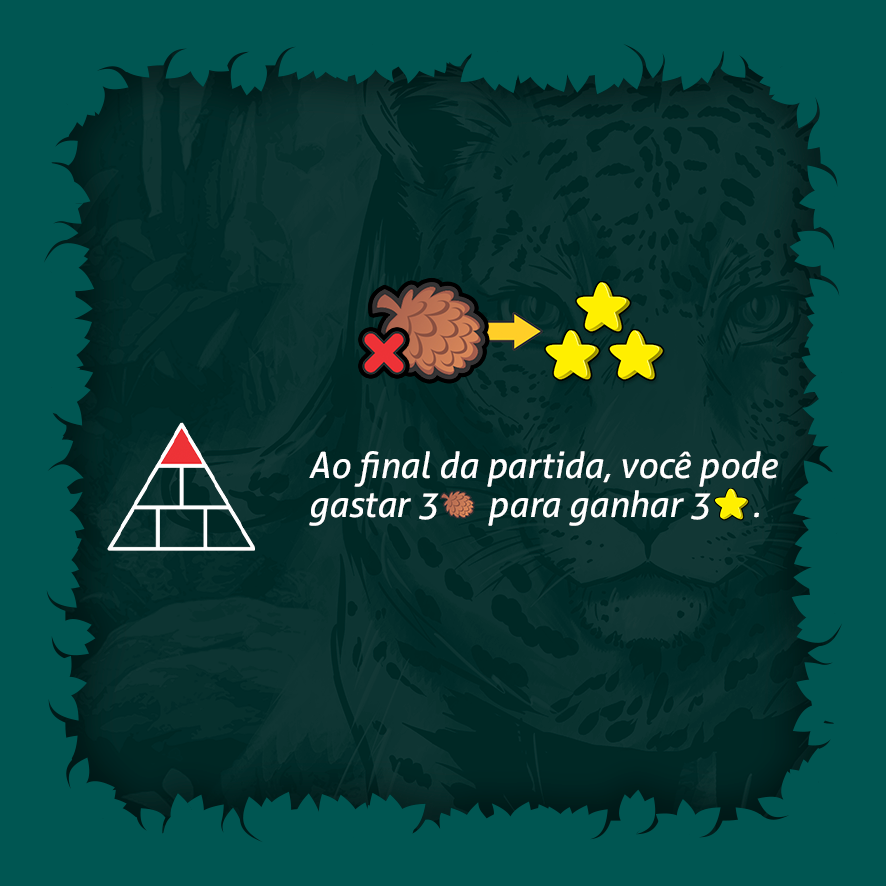
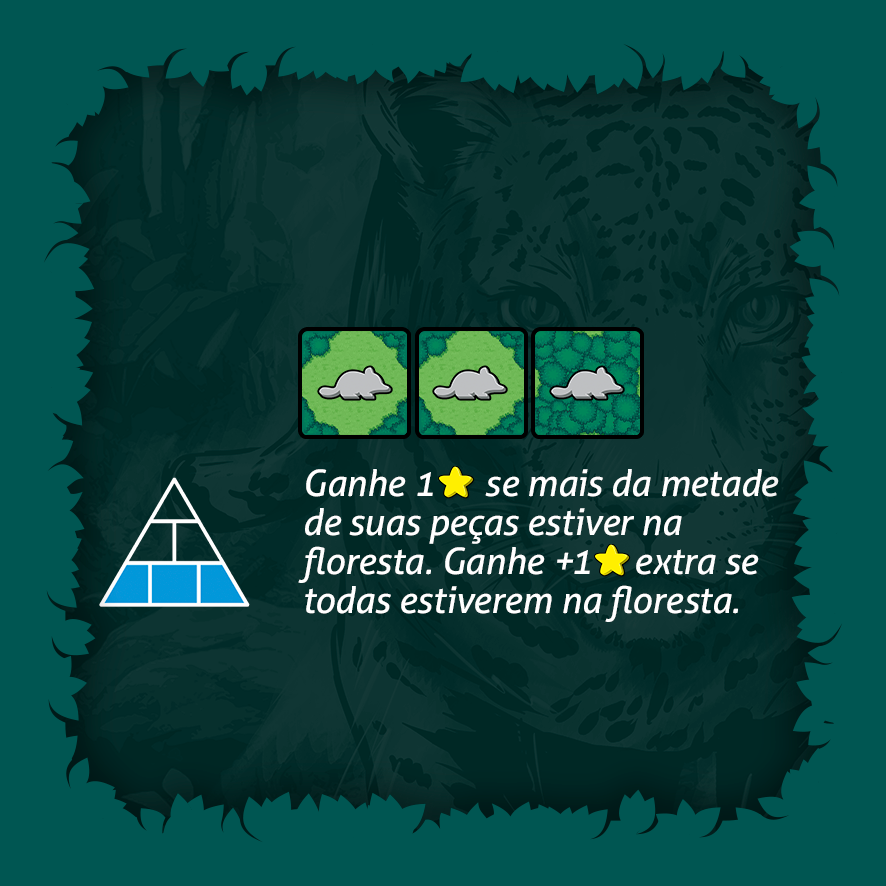
Update objective cards

Changed region(s): [[0.3352, 0.3047, 0.8837, 0.7009], [0.0914, 0.4571, 0.3047, 0.7009]]

diff --git a/packages/content/src/objectives.ts b/packages/content/src/objectives.ts
@@ -55,12 +55,6 @@ export const objectiveCards: ObjectiveCardDefinition[] = [
     "Ganhe 1 ponto extra se tiver maioria de carne. Ganhe +1 ponto extra se nao empatar essa maioria com outro jogador."
   ),
   objectiveCard(
-    5,
-    ["predator"],
-    { kind: "resource_majority_count" },
-    "Ao final da partida, ganhe 1 ponto extra por cada maioria que voce tiver de recursos."
-  ),
-  objectiveCard(
     6,
     ["middle", "base"],
     { kind: "habitat_line", habitat: "field", minLength: 3, maxPoints: 2 },
@@ -92,9 +86,9 @@ export const objectiveCards: ObjectiveCardDefinition[] = [
   ),
   objectiveCard(
     11,
-    ["predator"],
-    { kind: "seed_spend", spendSeedCount: 3, points: 3 },
-    "Ao final da partida, voce pode gastar 3 pinhas para ganhar 3 pontos."
+    ["base"],
+    { kind: "pieces_in_forest" },
+    "Ganhe 1 ponto se mais da metade de suas pecas estiver na floresta. Ganhe +1 ponto extra se todas estiverem na floresta."
   ),
   objectiveCard(
     12,
@@ -116,9 +110,9 @@ export const objectiveCards: ObjectiveCardDefinition[] = [
   ),
   objectiveCard(
     15,
-    ["predator"],
-    { kind: "extra_turn" },
-    "Gaste 1 ponto para jogar um turno extra apos a contagem de maiorias."
+    ["middle", "base"],
+    { kind: "resource_square", maxPoints: 2 },
+    "Ganhe 1 ponto por cada quadrado de locais com os 4 recursos diferentes. Maximo 2 pontos."
   ),
   objectiveCard(
     16,
@@ -149,24 +143,6 @@ export const objectiveCards: ObjectiveCardDefinition[] = [
     ["predator"],
     { kind: "extra_turn" },
     "Gaste 1 ponto para jogar um turno extra apos a contagem de maiorias."
-  ),
-  objectiveCard(
-    21,
-    ["middle", "base"],
-    { kind: "resource_square", maxPoints: 2 },
-    "Ganhe 1 ponto por cada quadrado de locais com os 4 recursos diferentes. Maximo 2 pontos."
-  ),
-  objectiveCard(
-    22,
-    ["predator", "middle"],
-    { kind: "missing_resources", maxPoints: 2 },
-    "Ganhe 1 ponto por cada recurso que nao possuir no final da partida. Maximo 2 pontos."
-  ),
-  objectiveCard(
-    23,
-    ["base"],
-    { kind: "pieces_in_forest" },
-    "Ganhe 1 ponto se mais da metade de suas pecas estiver na floresta. Ganhe +1 ponto extra se todas estiverem na floresta."
   )
 ];
 

diff --git a/packages/rules/src/endgame.test.ts b/packages/rules/src/endgame.test.ts
@@ -77,7 +77,7 @@ describe("end game scoring", () => {
     let game = activeGame([player("p1", "coati"), player("p2", "macaw")]);
     const a = game.players.find((p) => p.playerId === "p1")!;
     a.score = 4;
-    a.selectedObjectiveCardId = "objective_23";
+    a.selectedObjectiveCardId = "objective_11";
     a.piecesInForest = ["a", "b", "c", "d", "e"]; // Quati has 8 pieces: more than half = +1 objective point.
 
     game = forceEndPlayerTurn(game, "p1", "end turn");